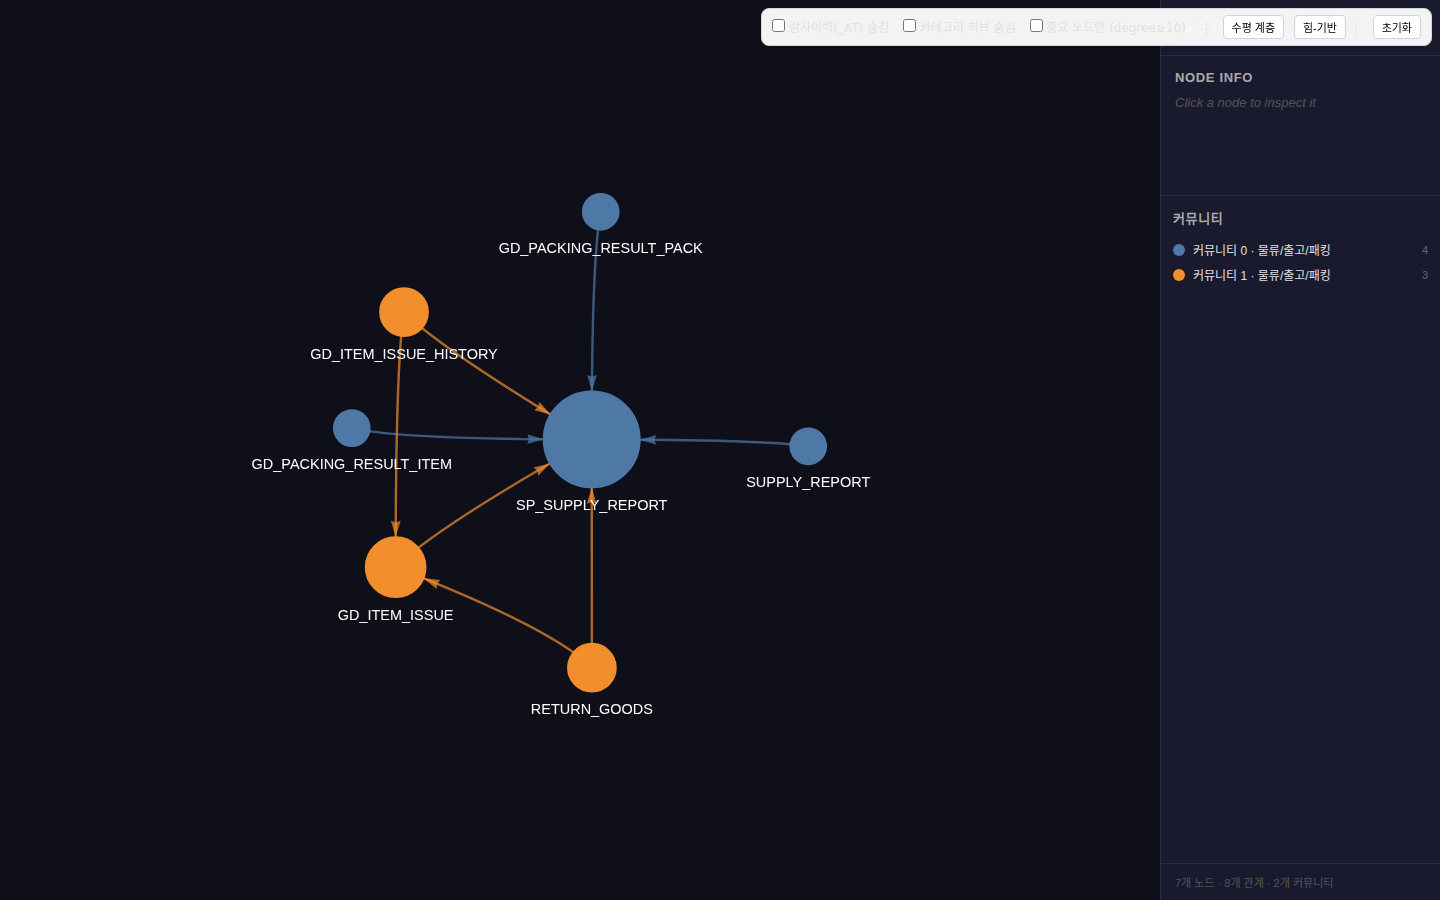
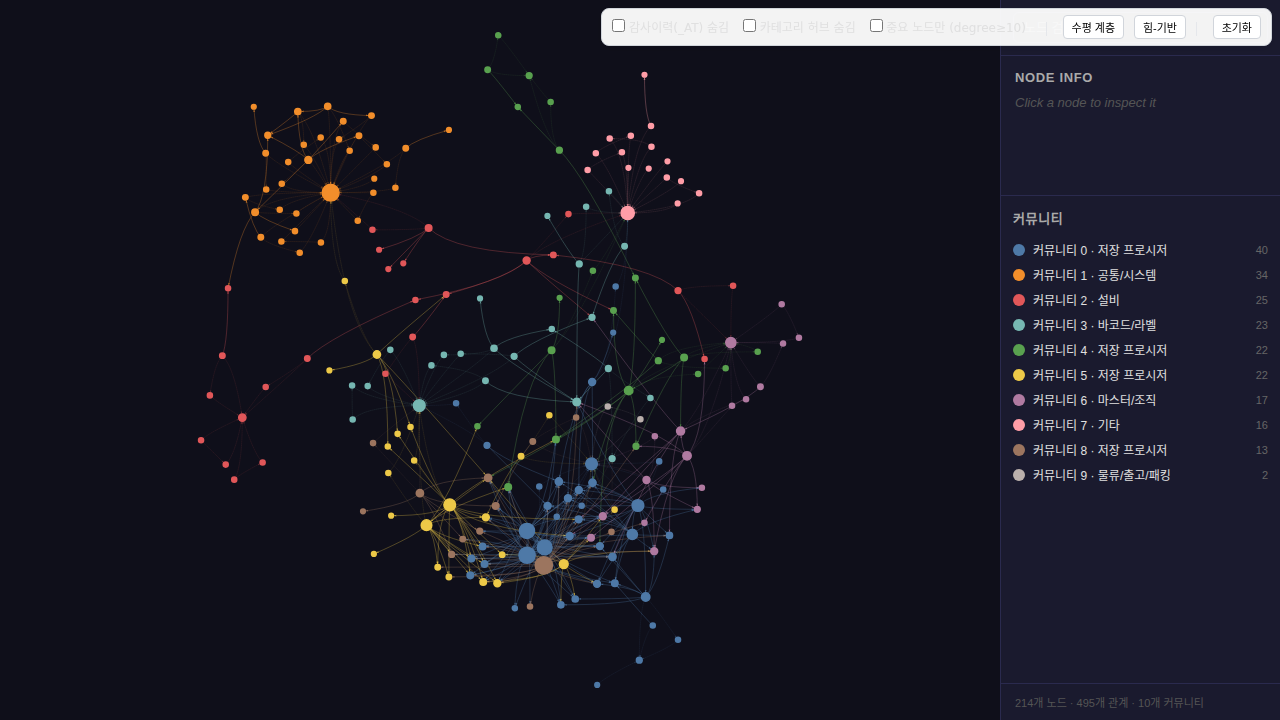
assets: use logged-in portfolio screenshots

diff --git a/data/projects.ts b/data/projects.ts
@@ -34,7 +34,7 @@ export const PROJECTS: Project[] = [
     category: 'web',
     liveUrl: 'https://kpi.dvsharp.com',
     docsPath: '/pharmkpi',
-    screenshot: '/images/portfolio/pharmkpi/hero.png',
+    screenshot: '/images/portfolio/pharmkpi/internal-dashboard.png',
     emoji: '📊',
     gradient: 'from-blue-600/20 to-cyan-600/20',
     features: [
@@ -181,7 +181,7 @@ export const PROJECTS: Project[] = [
     tech: ['Next.js 16', 'FastAPI', 'Redis', 'Tailwind', 'Base UI'],
     category: 'web',
     liveUrl: 'https://srt.dvsharp.com',
-    screenshot: '/images/portfolio/srt/hero.png',
+    screenshot: '/images/portfolio/srt/internal-dashboard.png',
     emoji: '🚄',
     gradient: 'from-sky-500/15 to-teal-500/15',
     features: [

diff --git a/app/(portfolio)/ax/page.tsx b/app/(portfolio)/ax/page.tsx
@@ -169,7 +169,7 @@ export default function AxPage() {
                 <FadeInUp key={study.projectSlug} delay={index * 0.06}>
                   <div className="overflow-hidden rounded-lg border border-stone-200 bg-white dark:border-stone-800 dark:bg-stone-900">
                     <div className="grid lg:grid-cols-[0.44fr_0.56fr]">
-                      <div className="border-b border-stone-200 bg-stone-50 dark:border-stone-800 dark:bg-stone-950 lg:border-b-0 lg:border-r">
+                      <div className="flex items-center justify-center border-b border-stone-200 bg-stone-50 dark:border-stone-800 dark:bg-stone-950 lg:border-b-0 lg:border-r">
                         <ProjectThumbnail project={project} variant="detail" />
                       </div>
                       <div className="p-6">

diff --git a/app/(portfolio)/projects/[slug]/page.tsx b/app/(portfolio)/projects/[slug]/page.tsx
@@ -44,7 +44,7 @@ export default async function ProjectPage(
         </Link>
 
         {/* 히어로: 60/40 스플릿 */}
-        <div className="flex flex-col gap-10 lg:flex-row lg:items-start">
+        <div className="flex flex-col gap-10 lg:flex-row lg:items-center">
           {/* 좌측 60% — 텍스트 */}
           <div className="lg:w-3/5">
             <div className="flex items-center gap-3">

diff --git a/components/portfolio/project-card.tsx b/components/portfolio/project-card.tsx
@@ -15,7 +15,7 @@ export function ProjectCard({ project }: { project: Project }) {
       )}
     >
       {/* 스크린샷 또는 그라데이션 플레이스홀더 */}
-      <div className="relative aspect-video overflow-hidden">
+      <div className="relative flex aspect-video items-center justify-center overflow-hidden bg-stone-950">
         <ProjectThumbnail project={project} variant="card" />
 
         {/* NEW 뱃지 */}